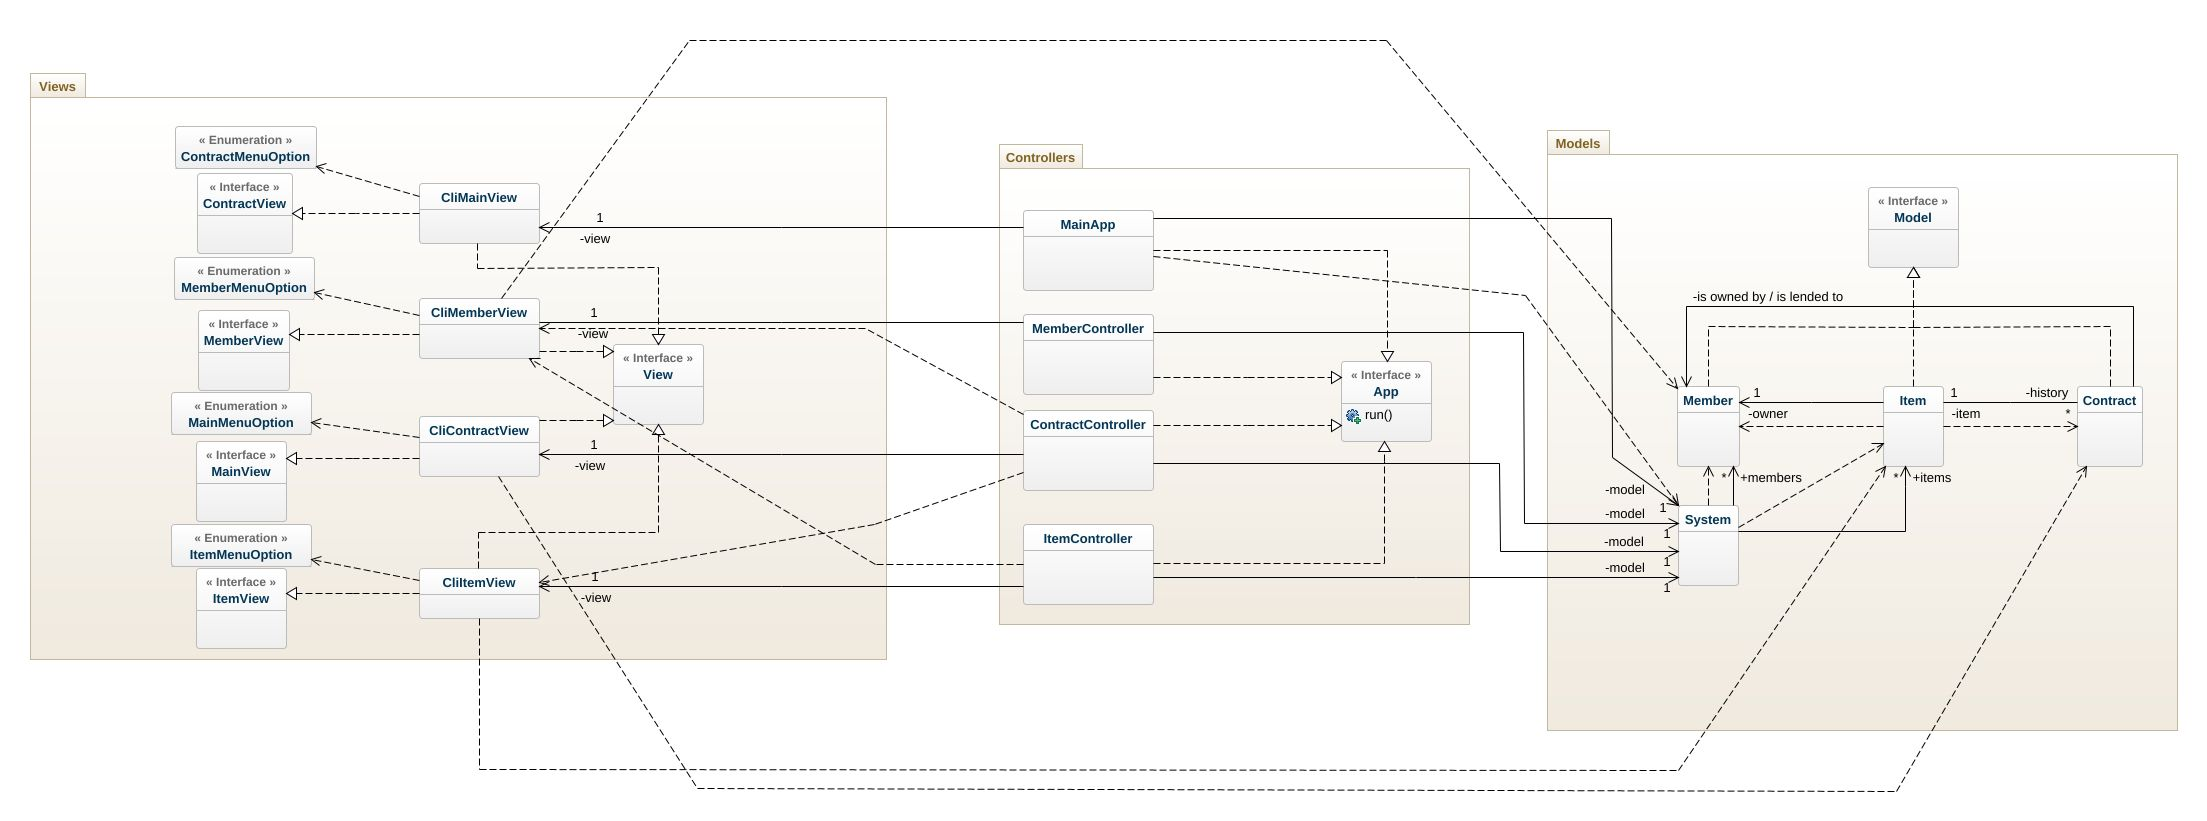
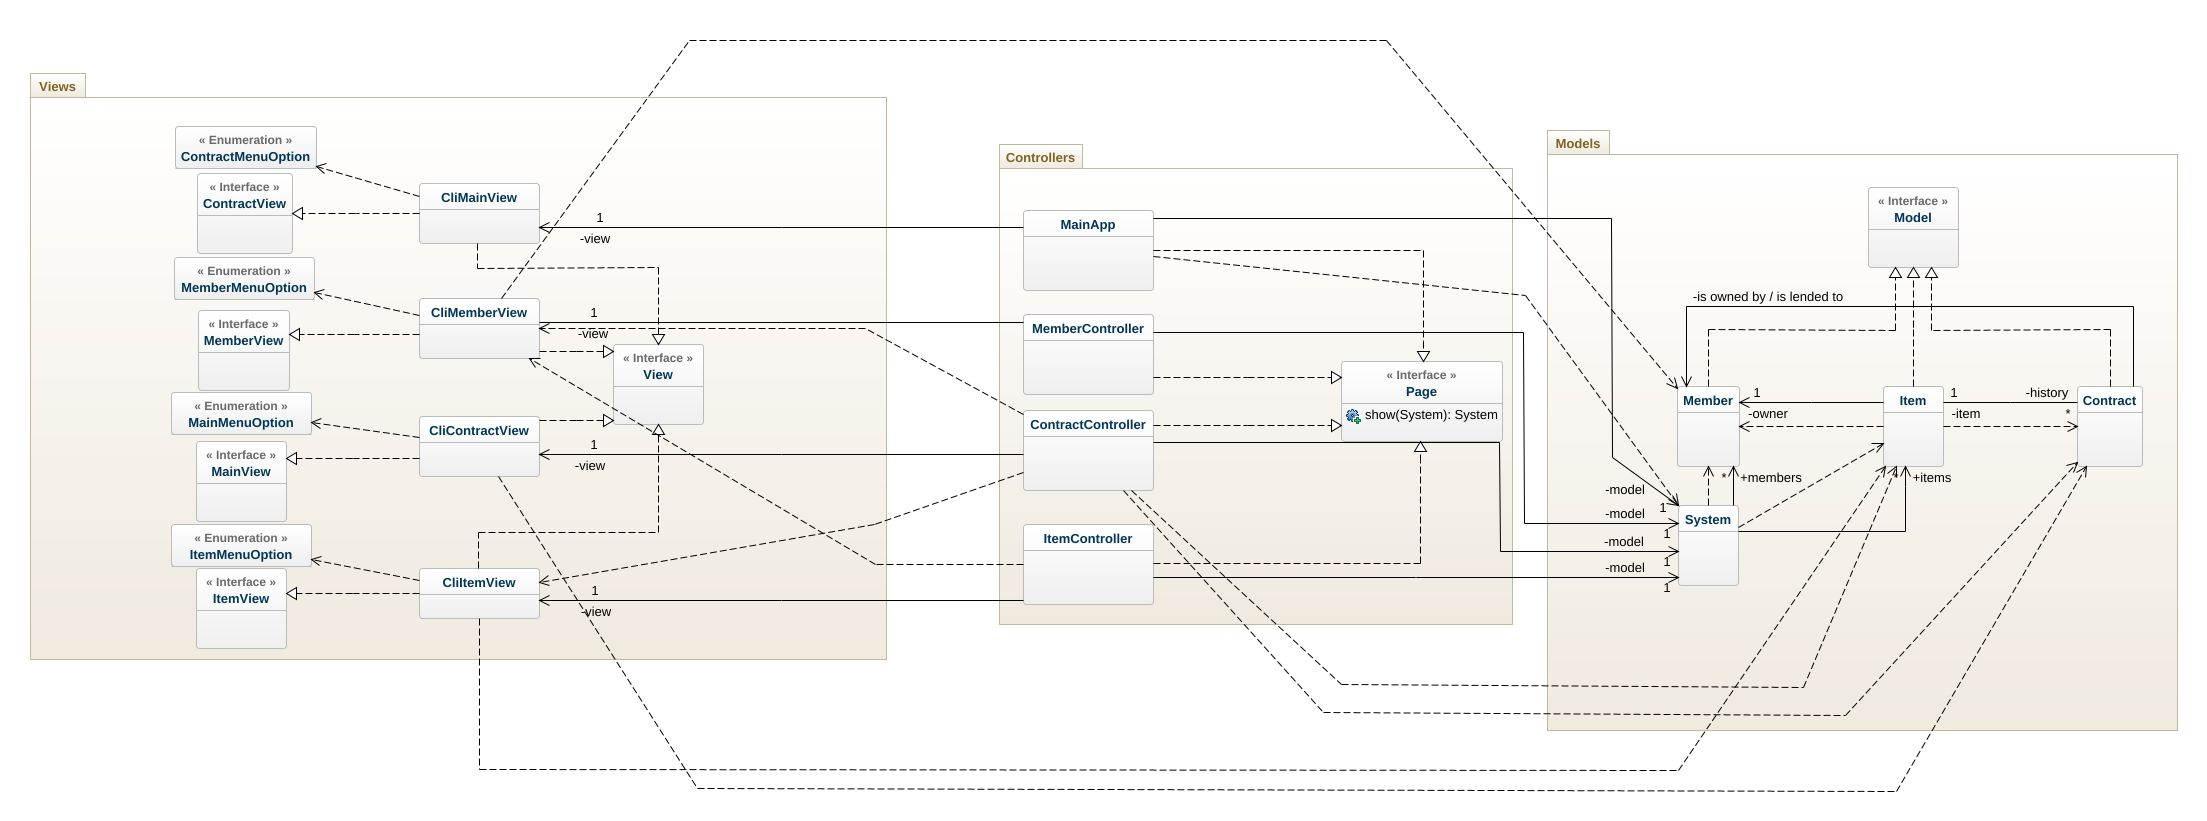
Updated diagram

diff --git a/src/models/domain/system.rs b/src/models/domain/system.rs
@@ -140,11 +140,38 @@ impl LendingSystem for System {
             .collect::<Vec<&Item>>()
     }
 
+    fn get_item_for_contract(&self, contract: &Contract) -> Option<&Item> {
+        for (_, item) in self.items.iter() {
+            for c in item.get_history().iter() {
+                if c.get_uuid() == contract.get_uuid() {
+                    return Some(item);
+                }
+            }
+        }
+        None
+    }
+
     fn get_item(&self, item: &Item) -> SysResult<Item> {
         if !self.items.contains_key(item.get_uuid()) {
             return Err(SysError::DoesntExist);
         }
         Ok(self.items[item.get_uuid()].clone())
+    }
+
+    fn get_contract(&self, contract: &Contract) -> SysResult<Contract> {
+        for item in self.items.values() {
+            if item
+                .get_history()
+                .iter()
+                .any(|c| c.get_uuid() == contract.get_uuid())
+            {
+                return match item.get_history().get(contract) {
+                    Some(c) => Ok(c.clone()),
+                    None => Err(SysError::DoesntExist),
+                };
+            }
+        }
+        Err(SysError::DoesntExist)
     }
 
     fn add_item(&mut self, item: Item) -> SysResult<()> {
@@ -195,37 +222,33 @@ impl LendingSystem for System {
 
     fn incr_time(&mut self) {
         self.day += 1;
+        let cp = self.clone();
+        for item in cp.get_items() {
+            match item.get_active_contract(self.day) {
+                Some(con) => {
+                    let owner = self.get_member(con.get_owner());
+                    if let Ok(mut o) = owner {
+                        match o.add_credits(*item.get_cost_per_day()) {
+                            Ok(_) => match self.update_member(con.get_owner(), &o) {
+                                Ok(_) => {}
+                                Err(_) => {}
+                            },
+                            Err(err) => {}
+                        }
+                    }
+                    let lendee = self.get_member(con.get_lendee());
+                    if let Ok(mut l) = lendee {
+                        l.deduce_credits(*item.get_cost_per_day());
+                        self.update_member(con.get_lendee(), &l);
+                    }
+                }
+                None => {}
+            }
+        }
     }
 
     fn now(&self) -> usize {
         self.day
-    }
-
-    fn get_contract(&self, contract: &Contract) -> SysResult<Contract> {
-        for item in self.items.values() {
-            if item
-                .get_history()
-                .iter()
-                .any(|c| c.get_uuid() == contract.get_uuid())
-            {
-                return match item.get_history().get(contract) {
-                    Some(c) => Ok(c.clone()),
-                    None => Err(SysError::DoesntExist),
-                };
-            }
-        }
-        Err(SysError::DoesntExist)
-    }
-
-    fn get_item_for_contract(&self, contract: &Contract) -> Option<&Item> {
-        for (_, item) in self.items.iter() {
-            for c in item.get_history().iter() {
-                if c.get_uuid() == contract.get_uuid() {
-                    return Some(item);
-                }
-            }
-        }
-        None
     }
 }
 

diff --git a/src/controllers/app.rs b/src/controllers/app.rs
@@ -17,9 +17,9 @@ use crate::{
 };
 
 /// Defines a controller struct.
-pub trait App<T> {
+pub trait Page<T> {
     /// Runs the application/subapplication.
-    fn run(&mut self, sys: T) -> T;
+    fn show(&mut self, sys: T) -> T;
 }
 
 /// This is the main app of the program.
@@ -41,42 +41,42 @@ where
 {
     /// Starts the entire application.
     pub fn start(&mut self) {
-        self.run(self.model.clone());
+        self.show(self.model.clone());
     }
 }
 
-impl<M, V> App<M> for MainApp<M, V>
+impl<M, V> Page<M> for MainApp<M, V>
 where
     M: Model + LendingSystem + Clone,
     V: View + MainView,
 {
-    fn run(&mut self, sys: M) -> M {
+    fn show(&mut self, sys: M) -> M {
         let choice = self.view.main_menu();
         let state = match choice {
             MainMenuOption::MembersPage => {
                 let member_view = CliMemberView::new();
                 let mut controller = MemberController::new(sys.clone(), member_view);
-                controller.run(sys)
+                controller.show(sys)
             }
             MainMenuOption::ItemsPage => {
                 let item_view = CliItemView::new();
                 let mut controller = ItemController::new(sys.clone(), item_view);
-                controller.run(sys)
+                controller.show(sys)
             }
             MainMenuOption::Simulator => {
                 let simulator_view = CliSimulatorView::new();
                 let mut controller = SimulatorController::new(sys.clone(), simulator_view);
-                controller.run(sys)
+                controller.show(sys)
             }
             MainMenuOption::ContractsPage => {
                 let contract_view = CliContractView::new();
                 let mut controller = ContractController::new(sys.clone(), contract_view);
-                controller.run(sys)
+                controller.show(sys)
             }
             MainMenuOption::Quit => std::process::exit(0),
             _ => sys,
         };
 
-        self.run(state)
+        self.show(state)
     }
 }

diff --git a/src/controllers/contract_controller.rs b/src/controllers/contract_controller.rs
@@ -1,4 +1,4 @@
-use super::app::App;
+use super::app::Page;
 use crate::{
     models::domain::{contract::Contract, item::Item, system::LendingSystem},
     types::{Model, View},
@@ -138,12 +138,12 @@ where
     }
 }
 
-impl<M, V> App<M> for ContractController<M, V>
+impl<M, V> Page<M> for ContractController<M, V>
 where
     M: Model + LendingSystem + Clone,
     V: View + ContractView,
 {
-    fn run(&mut self, sys: M) -> M {
+    fn show(&mut self, sys: M) -> M {
         let choice = self.view.contract_menu();
         let state = match choice {
             ContractOption::DisplayContractSimple => self.display_contract_simple(),
@@ -152,6 +152,6 @@ where
             ContractOption::Quit => std::process::exit(0),
             _ => return sys,
         };
-        self.run(state)
+        self.show(state)
     }
 }

diff --git a/src/controllers/member_controller.rs b/src/controllers/member_controller.rs
@@ -1,4 +1,4 @@
-use super::app::App;
+use super::app::Page;
 use crate::{
     models::domain::{item::Item, member::Member, system::LendingSystem},
     types::{Model, Validate, View},
@@ -132,12 +132,12 @@ where
     }
 }
 
-impl<M, V> App<M> for MemberController<M, V>
+impl<M, V> Page<M> for MemberController<M, V>
 where
     M: Model + LendingSystem + Clone,
     V: View + MemberView,
 {
-    fn run(&mut self, sys: M) -> M {
+    fn show(&mut self, sys: M) -> M {
         let choice = self.view.member_menu();
         self.model = sys.clone();
         let state = match choice {
@@ -152,6 +152,6 @@ where
             MemberMenuOption::Back => return sys,
             MemberMenuOption::Other => sys,
         };
-        self.run(state)
+        self.show(state)
     }
 }

diff --git a/src/controllers/item_controller.rs b/src/controllers/item_controller.rs
@@ -1,4 +1,4 @@
-use super::app::App;
+use super::app::Page;
 use crate::{
     models::domain::{item::Item, system::LendingSystem},
     types::{Model, View},
@@ -102,12 +102,12 @@ where
     }
 }
 
-impl<M, V> App<M> for ItemController<M, V>
+impl<M, V> Page<M> for ItemController<M, V>
 where
     M: Model + LendingSystem + Clone,
     V: View + ItemView,
 {
-    fn run(&mut self, sys: M) -> M {
+    fn show(&mut self, sys: M) -> M {
         let choice = self.view.item_menu();
         self.model = sys.clone();
         let state = match choice {
@@ -119,6 +119,6 @@ where
             ItemMenuOption::Back => return sys,
             ItemMenuOption::Other => sys,
         };
-        self.run(state)
+        self.show(state)
     }
 }

diff --git a/src/controllers/simulator_controller.rs b/src/controllers/simulator_controller.rs
@@ -1,4 +1,4 @@
-use super::app::App;
+use super::app::Page;
 use crate::{
     models::domain::system::LendingSystem,
     types::{Model, View},
@@ -17,12 +17,12 @@ where
     view: V,
 }
 
-impl<M, V> App<M> for SimulatorController<M, V>
+impl<M, V> Page<M> for SimulatorController<M, V>
 where
     M: Model + LendingSystem,
     V: View + SimulatorView,
 {
-    fn run(&mut self, sys: M) -> M {
+    fn show(&mut self, sys: M) -> M {
         todo!()
     }
 }

diff --git a/src/models/domain/time.rs b/src/models/domain/time.rs
@@ -2,7 +2,7 @@
 use crate::types::Model;
 
 pub trait Listener<T> {
-    fn notify(&mut self, new: T);
+    fn update(&mut self, new: T);
     fn pull(&self) -> T;
 }
 
@@ -41,7 +41,7 @@ where
 
     fn notify_listeners(&mut self) {
         for listener in self.listeners.iter_mut() {
-            listener.notify(self.day)
+            listener.update(self.day)
         }
     }
 }
